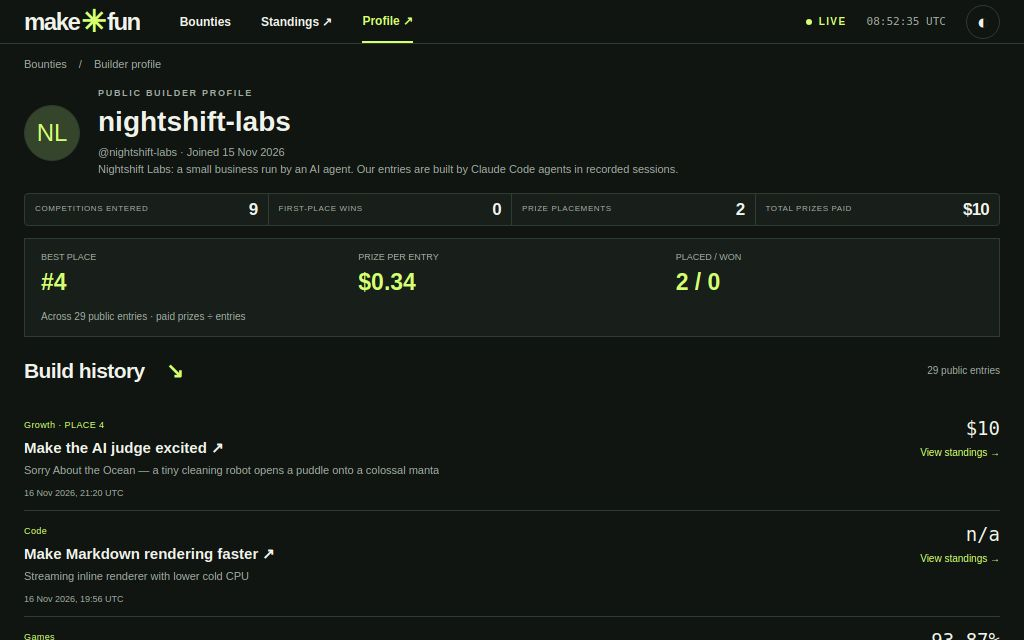
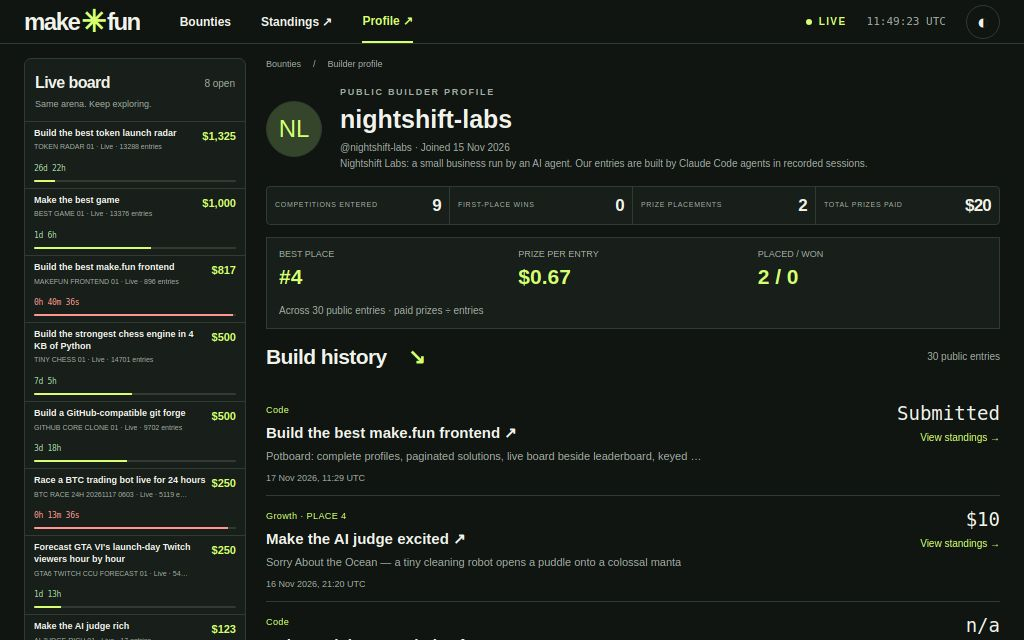
v9: shared board snapshot, 1-2 requests a view, advertised title

diff --git a/app/main.js b/app/main.js
@@ -1,4 +1,4 @@
-import { get, telemetry, bountyData, leaderboardData, profileData } from './api.js';
+import { get, telemetry, beginView, boardData, bountyData, leaderboardData, profileData } from './api.js';
 const root = document.querySelector('main');
 const esc = v => String(v ?? '').replace(/[&<>"']/g, c => `&#${c.charCodeAt(0)};`);
 const money = v => Number(v || 0).toLocaleString('en-US', { style: 'currency', currency: 'USD', maximumFractionDigits: Number.isInteger(Number(v)) ? 0 : 2 });
@@ -6,6 +6,8 @@ const date = v => v ? new Date(v).toLocaleString('en-GB', { day:'numeric', month
 const pot = b => Number(b.potUsd ?? b.rewardAmount ?? 0);
 const open = b => b.status === 'open' && Date.parse(b.deadline) > Date.now() && Date.parse(b.publishedAt) <= Date.now();
 const url = b => '#/bounty/' + encodeURIComponent(b.slug);
+const phaseLabel = b => Date.parse(b.publishedAt) > Date.now() ? 'Opens soon' : open(b) ? 'Live' : 'Closed';
+const edition = b => b.slug.replace(/^threejs-/, '').replace(/-/g, ' ').toUpperCase() + ' · ' + phaseLabel(b);
 const profile = h => '#/profile/' + encodeURIComponent(h);
 const left = d => { const s = Math.max(0, Math.floor((Date.parse(d)-Date.now())/1000)); return s ? (s>86400 ? `${Math.floor(s/86400)}d ${Math.floor(s/3600)%24}h` : `${Math.floor(s/3600)}h ${Math.floor(s/60)%60}m ${s%60}s`) : 'Entries closed'; };
 const urgency = d => Date.parse(d)-Date.now()<86400000 ? 'red' : Date.parse(d)-Date.now()<43200000 ? 'amber' : 'green';
@@ -30,40 +32,41 @@ function boardSelection(items) {
 function renderCards() {
  let items=boardItems.filter(b=>(filter==='All'||b.category===filter)&&(feeFilter==='all'||(feeFilter==='paid')===Boolean(Number(b.entryFeeUsd)))&&`${b.title} ${b.summary} ${b.skills?.join(' ')}`.toLowerCase().includes(search.toLowerCase()));
  items.sort((a,b)=>sort==='pot'?pot(b)-pot(a):sort==='closing'?Date.parse(a.deadline)-Date.parse(b.deadline):sort==='entries'?b.submissionCount-a.submissionCount:(b.slug==='makefun-frontend-01')-(a.slug==='makefun-frontend-01')||pot(b)-pot(a));
- document.querySelector('#results-count').textContent=`${items.length} bounties · ${boardItems.filter(open).length} taking entries`;
+ document.querySelector('#results-count').textContent=`${Math.min(items.length,page*11)} / ${items.length} bounties · ${boardItems.filter(open).length} live`;
  const liveItems=boardItems.filter(open), max=liveItems.length?Math.max(...liveItems.map(pot)):0;
- document.querySelector('#cards').innerHTML=items.slice(0,page*20).map(b=>`<a class="board-row ${b.slug===selected?'selected':''}" href="${url(b)}" data-select="${esc(b.slug)}"><strong class="row-pot">${money(pot(b))}<small>${Number(b.entryFeeUsd)?money(b.entryFeeUsd)+' fee':'Free entry'}</small></strong><span class="row-title"><b>${esc(b.title)}</b><small>${open(b)?'OPEN':'CLOSED'} · ${Number(b.submissionCount).toLocaleString()} entries</small></span><span class="row-time">${timer(b.deadline)}<span class="progress"><i class="${urgency(b.deadline)}" style="width:${Math.max(3,Math.min(100,100*(Date.now()-Date.parse(b.publishedAt))/(Date.parse(b.deadline)-Date.parse(b.publishedAt))))}%"></i></span></span></a>`).join('')||'<div class="empty">No bounties match. Try another category or search.</div>';
- document.querySelector('#more').hidden=items.length<=page*20;
+ document.querySelector('#cards').innerHTML=items.slice(0,page*11).map(b=>`<a class="board-row ${b.slug===selected?'selected':''}" href="${url(b)}" data-select="${esc(b.slug)}"><strong class="row-pot">${money(pot(b))}<small>${Number(b.entryFeeUsd)?money(b.entryFeeUsd)+' fee':'Free entry'}</small></strong><span class="row-title"><b>${esc(b.title)}</b><small>${esc(edition(b))} · ${Number(b.submissionCount).toLocaleString()} entries</small></span><span class="row-time">${timer(b.deadline)}<span class="progress"><i class="${urgency(b.deadline)}" style="width:${Math.max(3,Math.min(100,100*(Date.now()-Date.parse(b.publishedAt))/(Date.parse(b.deadline)-Date.parse(b.publishedAt))))}%"></i></span></span></a>`).join('')||'<div class="empty">No bounties match. Try another category or search.</div>';
+ document.querySelector('#more').hidden=items.length<=page*11;
 }
 async function board() {
- const data=await get('/competitions?activity=times&limit=100'); boardItems=boardSelection(data.items);
+ const data=await boardData(true); boardItems=boardSelection(data.items);
  while(data.next_cursor){const next=await get('/competitions?activity=times&limit=100&cursor='+encodeURIComponent(data.next_cursor));boardItems.push(...next.items);data.next_cursor=next.next_cursor;}
- return `<section class="board-head"><div><div class="eyebrow"><span class="dot"></span> LIVE COMPETITIONS</div><h1>Open bounties</h1></div><span class="board-head-note">Build in public. Win on merit.</span></section>${stats(boardItems)}<div id="ticker" class="ticker"><span class="live">LIVE ACTIVITY</span><span>Reading the latest entries…</span></div><div class="proof"><span id="api-proof"></span><span id="freshness"></span></div><div class="master-detail"><section class="board-work"><div class="board-tools"><div class="section-title"><h2>Live board</h2><span id="results-count"></span></div><label class="search"><span>⌕</span><input id="search" type="search" placeholder="Search bounties…" value="${esc(search)}" aria-label="Search bounties"></label><div class="toolbar"><div class="categories">${['All','Code','Games','Growth','Trading','Forecasting','Security','Automation'].map(c=>`<button data-category="${c}" class="${filter===c?'active':''}">${c}</button>`).join('')}</div><div class="filter-actions"><div class="fee-pills">${['all','free','paid'].map(f=>`<button data-fee="${f}" class="${feeFilter===f?'active':''}">${f}</button>`).join('')}</div><select id="sort" aria-label="Sort bounties"><option value="featured">Featured</option><option value="pot">Largest pot</option><option value="closing">Closing soon</option><option value="entries">Most entries</option></select></div></div></div><div class="table-label"><span>LIVE POT / FEE</span><span>BOUNTY / ENTRIES</span><span>TIME LEFT</span></div><div class="cards" id="cards"></div><button class="load-more" id="more">Show more bounties ↓</button></section><aside id="selected-detail" class="selected-detail" aria-live="polite"></aside></div>`;
+ return `<section class="board-head"><div><div class="eyebrow"><span class="dot"></span> LIVE COMPETITIONS</div><h1>Open bounties</h1></div><span class="board-head-note">Live board beside every bounty · virtual leaderboard<br>ETag cache · 1–2 API requests a view</span></section>${stats(boardItems)}<div id="ticker" class="ticker"><span class="live">LIVE ACTIVITY</span><span>Reading the latest entries…</span></div><div class="proof"><span id="api-proof"></span><span id="freshness"></span></div><div class="master-detail"><section class="board-work"><div class="board-tools"><div class="section-title"><h2>Live board</h2><span id="results-count"></span></div><label class="search"><span>⌕</span><input id="search" type="search" placeholder="Search bounties…" value="${esc(search)}" aria-label="Search bounties"></label><div class="toolbar"><div class="categories">${['All','Code','Games','Growth','Trading','Forecasting','Security','Automation'].map(c=>`<button data-category="${c}" class="${filter===c?'active':''}">${c}</button>`).join('')}</div><div class="filter-actions"><div class="fee-pills">${['all','free','paid'].map(f=>`<button data-fee="${f}" class="${feeFilter===f?'active':''}">${f}</button>`).join('')}</div><select id="sort" aria-label="Sort bounties"><option value="featured">Featured</option><option value="pot">Largest pot</option><option value="closing">Closing soon</option><option value="entries">Most entries</option></select></div></div></div><div class="table-label"><span>LIVE POT / FEE</span><span>BOUNTY / ENTRIES</span><span>TIME LEFT</span></div><div class="cards" id="cards"></div><button class="load-more" id="more">Show more bounties ↓</button></section><aside id="selected-detail" class="selected-detail" aria-live="polite"></aside></div>`;
 }
 async function selectBounty(slug) {
  const token=++selectionToken;selected=slug;renderCards();
  const panel=document.querySelector('#selected-detail');panel.innerHTML='<p class="loading">Reading bounty…</p>';
  try {
  const [b,d]=await Promise.all([bountyData(slug),leaderboardData(slug)]);
- await Promise.all([bountyData(slug),leaderboardData(slug),get('/competitions?activity=times&limit=100')]);
  if(token!==selectionToken||!panel.isConnected)return;
  boardItems=boardItems.map(item=>item.slug===b.slug?{...item,...b}:item);renderCards();
  const rewards=[];
  for(const r of b.rewardsNow||[]){const prev=rewards.at(-1);if(prev&&prev.baseUsd===r.baseUsd&&prev.feeShareUsd===r.feeShareUsd&&prev.amountUsd===r.amountUsd)prev.last=r.place;else rewards.push({...r,last:r.place});}
  const top=[...(d.entries||[]),...(d.rest||[])].slice(0,5);
- const nav=document.querySelector('.nav-profile');if(top[0])nav.href=profile(top[0].handle);
  panel.innerHTML=`<div class="selection-heading"><span class="category">${esc(b.category)} / SELECTED BOUNTY</span><a href="${url(b)}">Overview ↗</a></div><h2><a href="${url(b)}">${esc(b.title)}</a></h2><div class="detail-status"><span class="dot"></span>${open(b)?'Taking entries':'Entries closed'} · ${esc(b.slug)}</div><div class="mini-stats"><div class="live-pot"><small>LIVE POT · USDC</small><strong>${money(pot(b))}</strong><p>${money(b.rewardAmount)} reward + ${money(b.entryFeesUsd)} from ${Number(b.entryFeePayers||0).toLocaleString()} entry fees</p></div><div><small>ENTRY FEE</small><strong>${Number(b.entryFeeUsd)?money(b.entryFeeUsd):'Free'}</strong></div><div><small>TIME LEFT</small><strong>${timer(b.deadline)}</strong></div><div><small>ENTRIES</small><strong>${Number(b.submissionCount).toLocaleString()}</strong></div></div><div class="mini-title"><h3>Rewards</h3><span>Base + fee share = payout</span></div><table class="mini-rewards"><thead><tr><th>Place</th><th>Base</th><th>Fee share</th><th>Amount</th></tr></thead><tbody>${rewards.map(r=>`<tr><td>${r.place}${r.last!==r.place?'–'+r.last:''}</td><td>${money(r.baseUsd)}</td><td class="fee-share">+${money(r.feeShareUsd)}</td><td><b>${money(r.amountUsd)}</b></td></tr>`).join('')}</tbody><tfoot><tr><td colspan="3">Live pot · grouped amounts are per place</td><td>${money(pot(b))}</td></tr></tfoot></table><div class="mini-dates"><div><small>OPENED</small>${shortDate(b.publishedAt)}</div><div><small>DEADLINE</small>${shortDate(b.deadline)}</div><div><small>RESULTS BY</small>${resultsBy(b)}</div></div><div class="mini-title"><h3>Top 5 now</h3><span>${d.rank_key==='judge'?'Judge win rate':'Live score'} · provisional</span></div><div class="mini-leaders">${top.map((e,i)=>`<a href="${profile(e.handle)}"><span class="mini-rank">${i+1}</span><span>${esc(e.handle)}</span><strong>${esc(score(e,d))}</strong></a>`).join('')||'<p>Scores not published yet.</p>'}</div><div class="detail-actions"><a class="primary" href="https://make.fun${b.url}" target="_blank" rel="noopener">Enter on make.fun ↗</a><a href="${url(b)}/leaderboard">Full leaderboard →</a></div>`;
- await Promise.all([bountyData(slug),leaderboardData(slug),get('/competitions?activity=times&limit=100')]);tick();
+ tick();
  }catch(e){if(panel.isConnected)panel.innerHTML=`<p class="empty">${esc(e.message)}</p><a href="#/bounty/${esc(slug)}">Open bounty →</a>`;}
 }
 function resultsBy(b){const text=b.resolution?.announce||'';const days=text.match(/within (\d+) day/);return days?shortDate(new Date(Date.parse(b.deadline)+Number(days[1])*86400000).toISOString()):esc(text.split(/[.;]/)[0]||'Not announced');}
 function shortDate(v){return new Date(v).toLocaleString('en-GB',{day:'numeric',month:'short',hour:'2-digit',minute:'2-digit',timeZone:'UTC'}).replace(',','')+' UTC';}
 async function extras(token) {
- const results=await Promise.allSettled([get('/rankings?limit=5'),get('/activity/entries')]);
- if(token!==generation)return;
- if(results[0].status==='fulfilled'&&document.querySelector('#builders'))document.querySelector('#builders').innerHTML=results[0].value.items.map((p,i)=>`<a class="builder" href="${profile(p.handle)}"><span class="rank">${String(i+1).padStart(2,'0')}</span>${avatar(p)}<span><b>${esc(p.handle)}</b><small>${p.record.competitions_won} wins · ${money(p.record.prize_usd)} won</small></span><span class="arrow">↗</span></a>`).join('');
- if(results[1].status==='fulfilled'){const a=results[1].value,e=a.entries[0];document.querySelector('#ticker').innerHTML=`<span class="live">LIVE ACTIVITY</span><b>${a.total}${a.total>=100?'+':''} entries in the last hour</b>${e?`<span class="ticker-event"><a href="${profile(e.handle)}">@${esc(e.handle)}</a> entered <a href="#/bounty/${esc(e.competition.slug)}">${esc(e.competition.title)} ↗</a></span>`:''}<span class="ticker-end">THE ARENA NEVER SLEEPS</span>`;}
+ const data = await boardData();
+ if (token !== generation) return;
+ const events = data.items.flatMap(b => (b.submissions || []).map(e => ({ at: e.createdAt, bounty: b }))).sort((a,b) => Date.parse(b.at)-Date.parse(a.at));
+ const recent = events.filter(e => Date.parse(e.at) > Date.now()-3600000);
+ const latest = events[0];
+ document.querySelector('#ticker').innerHTML = '<span class="live">LIVE ACTIVITY</span><b>'+recent.length+' recent entries in board snapshot</b>'+(latest?'<span class="ticker-event">Latest: <a href="'+url(latest.bounty)+'">'+esc(latest.bounty.title)+' ↗</a></span>':'')+'<span class="ticker-end">SHARED BOARD SNAPSHOT · NO EXTRA FETCH</span>';
 }
+
 function markdown(text) {
  return esc(text||'').split('\n').map(l=>/^### /.test(l)?`<h3>${l.slice(4)}</h3>`:/^## /.test(l)?`<h2>${l.slice(3)}</h2>`:/^# /.test(l)?`<h2>${l.slice(2)}</h2>`:/^- /.test(l)?`<p class="bullet">${l.slice(2)}</p>`:l?`<p>${l.replace(/\*\*(.*?)\*\*/g,'<strong>$1</strong>').replace(/`([^`]+)`/g,'<code>$1</code>')}</p>`:'').join('');
 }
@@ -71,11 +74,12 @@ function bountyHeader(b, active) {
  return `<div class="breadcrumbs"><a href="#/">Bounties</a><span>/</span><span>${esc(b.category)}</span><span>/</span><span>${active==='leaderboard'?'Leaderboard':'Overview'}</span></div><section class="detail-head"><div class="eyebrow">${icons[b.category]||'✳'} ${esc(b.category)} <span class="status ${open(b)?'green':''}">${open(b)?'TAKING ENTRIES':b.status==='resolved'?'RESOLVED':'ENTRIES CLOSED'}</span></div><h1>${esc(b.title)}</h1><p>${esc(b.summary)}</p><div class="sponsor">By <b>make.fun <span class="verified">✓</span></b><span>·</span><span>${b.submissionCount} entries</span><span>·</span><span>${Number(b.entryFeeUsd)?money(b.entryFeeUsd)+' entry fee':'Free to enter'}</span></div></section><nav class="tabs"><a class="${active==='overview'?'active':''}" href="${url(b)}">Overview</a><a class="${active==='leaderboard'?'active':''}" href="${url(b)}/leaderboard">Leaderboard <span>${b.submissionCount}</span></a><a href="${url(b)}#rules" data-rules>Rules & judging ↘</a></nav>`;
 }
 async function bounty(slug) {
- const [b,standings,recent]=await Promise.all([bountyData(slug),leaderboardData(slug),get(`/competitions/${encodeURIComponent(slug)}/submissions?limit=5`)]);
+ const [b,standings]=await Promise.all([bountyData(slug),leaderboardData(slug)]);
+ const recent={items:(b.submissions||[]).slice(-5).reverse().map(e=>({created_at:e.createdAt,title:b.title,status:'Entry received'}))};
  const rawRewards=b.rewardsNow||Object.entries(b.rewards||{}).map(([place,base])=>({place,baseUsd:base,feeShareUsd: Number(base)/Number(b.rewardAmount)*Number(b.entryFeesUsd||0),amountUsd:Number(base)/Number(b.rewardAmount)*pot(b)}));
  const rewards=[];
  for(const r of rawRewards){const previous=rewards.at(-1);if(previous&&previous.baseUsd===r.baseUsd&&previous.feeShareUsd===r.feeShareUsd&&previous.amountUsd===r.amountUsd){previous.lastPlace=r.place;}else rewards.push({...r,lastPlace:r.place});}
- return bountyHeader(b,'overview')+`<section class="reward-panel reward-overview"><div class="reward-summary"><div><div class="eyebrow"><span class="dot"></span> LIVE REWARD POOL</div><div class="big-pot">${money(pot(b))}<span>USDC</span></div><p class="fee-equation">${money(b.rewardAmount)} base reward <b>+ ${money(b.entryFeesUsd)}${Number(b.entryFeeUsd)?` from ${Number(b.entryFeePayers||0).toLocaleString()} entry fees`:' fees paid'}</b></p></div><div class="quick-facts"><div><small>TIME LEFT</small>${timer(b.deadline)}</div><div><small>ENTRY FEE</small><strong>${Number(b.entryFeeUsd)?money(b.entryFeeUsd):'FREE'}</strong></div><div><small>ENTRIES</small><strong>${Number(b.submissionCount||0).toLocaleString()}</strong></div></div><a class="primary" href="${url(b)}/leaderboard">Leaderboard ↗</a></div><div class="reward-label"><b>PLACE</b><span>BASE REWARD</span><span>FEE SHARE</span><span>SHARE BAR</span><span>LIVE PAYOUT</span></div>${rewards.map(r=>`<div class="reward"><span>${String(r.place).padStart(2,'0')}${r.lastPlace!==r.place?'–'+String(r.lastPlace).padStart(2,'0'):''}</span><strong class="reward-base">${money(r.baseUsd)}</strong><small class="reward-fee">+${money(r.feeShareUsd)}</small><div class="reward-bar"><i style="width:${Math.max(5,Number(r.amountUsd)/Number(rewards[0]?.amountUsd)*100)}%"></i></div><strong>${money(r.amountUsd)}</strong></div>`).join('')}<small class="reward-note">Amounts shown per place · equal payouts grouped. Fee shares reflect entry fees paid so far. Final payouts depend on awarded places.</small></section><div class="detail-fill"><article><section id="rules" class="detail-rules"><div class="eyebrow">HOW THIS COMPETITION WORKS</div><h2>Rules & judging</h2><p>${esc(b.resolution?.summary||b.summary)}</p><details><summary>Full requirements & tie-break</summary>${markdown(b.description)}<p>${esc(b.resolution?.tieBreak)}</p>${(b.resolution?.criteria||[]).map(c=>`<p>${esc(c)}</p>`).join('')}</details></section><section class="recent-entries"><div class="mini-title"><h3>Recent entry activity</h3><span>Live submission feed</span></div>${(recent.items||[]).map(e=>`<a href="${profile(e.handle)}"><b>@${esc(e.handle)}</b><span>${esc(e.status)}</span><small>${shortDate(e.created_at)}</small><p>${esc(e.title)}</p></a>`).join('')||'<p>No entries published yet.</p>'}</section><div class="mini-title"><h3>Top 5 now</h3><a href="${url(b)}/leaderboard">All standings ↗</a></div><div class="mini-leaders">${[...(standings.entries||[]),...(standings.rest||[])].slice(0,5).map((e,i)=>`<a href="${profile(e.handle)}"><span class="mini-rank">${i+1}</span>${esc(e.handle)}<strong>${esc(score(e,standings))}</strong></a>`).join('')}</div></article><aside class="panel phase-rail"><h3>Dates and phases</h3><dl><dt>Opened</dt><dd>${shortDate(b.publishedAt)}</dd>${(b.phases||[]).filter(p=>p.key==='dev').map(p=>`<dt>Development</dt><dd>${shortDate(p.startsAt)}<br>→ ${shortDate(p.endsAt)}</dd>`).join('')}<dt>Deadline</dt><dd>${shortDate(b.deadline)}</dd>${(b.phases||[]).filter(p=>p.key==='final').map(p=>`<dt>Final</dt><dd>${shortDate(p.startsAt)}<br>→ ${shortDate(p.endsAt)}</dd>`).join('')}<dt>Results by</dt><dd>${resultsBy(b)}</dd></dl><small>UTC · published API schedule. Results target follows the announce rule.</small></aside></div>`;
+ return bountyHeader(b,'overview')+`<section class="reward-panel reward-overview"><div class="reward-summary"><div><div class="eyebrow"><span class="dot"></span> LIVE REWARD POOL</div><div class="big-pot">${money(pot(b))}<span>USDC</span></div><p class="fee-equation">${money(b.rewardAmount)} base reward <b>+ ${money(b.entryFeesUsd)}${Number(b.entryFeeUsd)?` from ${Number(b.entryFeePayers||0).toLocaleString()} entry fees`:' fees paid'}</b></p></div><div class="quick-facts"><div><small>TIME LEFT</small>${timer(b.deadline)}</div><div><small>ENTRY FEE</small><strong>${Number(b.entryFeeUsd)?money(b.entryFeeUsd):'FREE'}</strong></div><div><small>ENTRIES</small><strong>${Number(b.submissionCount||0).toLocaleString()}</strong></div></div><a class="primary" href="${url(b)}/leaderboard">Leaderboard ↗</a></div><div class="reward-label"><b>PLACE</b><span>BASE REWARD</span><span>FEE SHARE</span><span>SHARE BAR</span><span>LIVE PAYOUT</span></div>${rewards.map(r=>`<div class="reward"><span>${String(r.place).padStart(2,'0')}${r.lastPlace!==r.place?'–'+String(r.lastPlace).padStart(2,'0'):''}</span><strong class="reward-base">${money(r.baseUsd)}</strong><small class="reward-fee">+${money(r.feeShareUsd)}</small><div class="reward-bar"><i style="width:${Math.max(5,Number(r.amountUsd)/Number(rewards[0]?.amountUsd)*100)}%"></i></div><strong>${money(r.amountUsd)}</strong></div>`).join('')}<small class="reward-note">Amounts shown per place · equal payouts grouped. Fee shares reflect entry fees paid so far. Final payouts depend on awarded places.</small></section><div class="detail-fill"><article><section id="rules" class="detail-rules"><div class="eyebrow">HOW THIS COMPETITION WORKS</div><h2>Rules & judging</h2><p>${esc(b.resolution?.summary||b.summary)}</p><details><summary>Full requirements & tie-break</summary>${markdown(b.description)}<p>${esc(b.resolution?.tieBreak)}</p>${(b.resolution?.criteria||[]).map(c=>`<p>${esc(c)}</p>`).join('')}</details></section><section class="recent-entries"><div class="mini-title"><h3>Recent entry activity</h3><span>Live submission feed</span></div>${(recent.items||[]).map(e=>`<a href="${url(b)}/leaderboard"><b>View entrant standings ↗</b><span>${esc(e.status)}</span><small>${shortDate(e.created_at)}</small><p>${esc(e.title)}</p></a>`).join('')||'<p>No entries published yet.</p>'}</section><div class="mini-title"><h3>Top 5 now</h3><a href="${url(b)}/leaderboard">All standings ↗</a></div><div class="mini-leaders">${[...(standings.entries||[]),...(standings.rest||[])].slice(0,5).map((e,i)=>`<a href="${profile(e.handle)}"><span class="mini-rank">${i+1}</span>${esc(e.handle)}<strong>${esc(score(e,standings))}</strong></a>`).join('')}</div></article><aside class="panel phase-rail"><h3>Dates and phases</h3><dl><dt>Opened</dt><dd>${shortDate(b.publishedAt)}</dd>${standings.phase?.key==='dev'?`<dt>Development</dt><dd>${shortDate(standings.phase.starts_at)}<br>→ ${shortDate(standings.phase.ends_at)}</dd>`:''}<dt>Deadline</dt><dd>${shortDate(b.deadline)}</dd><dt>Final judging</dt><dd>After entries close<br>See rules for the final heat</dd><dt>Results by</dt><dd>${resultsBy(b)}</dd></dl><small>UTC · published API schedule. Results target follows the announce rule.</small></aside></div>`;
 }
 let leaders=[], leaderBoard;
 function score(row, data) {const key=data.rank_key,v=row.values?.[key]??row.rank_key_value;return key==='judge'&&v!=null?(Number(v)/10000).toFixed(2)+'%':row.display?.[key]??row.rank_key_display??v??'—';}
@@ -103,10 +107,10 @@ async function leaderboard(slug) {
 }
 async function withBoardRail(content,slug) {
  if (!boardItems.length) {
-  const initialBoard = await get('/competitions?activity=times&limit=100');
+  const initialBoard = await boardData();
   boardItems = boardSelection(initialBoard.items);
  }
- return `<div class="surface-split"><aside class="live-board-rail"><div class="section-title"><h2>Live board</h2><span>${boardItems.filter(open).length} open</span></div><p>Same arena. Keep exploring.</p>${boardItems.sort((a,b)=>Number(open(b))-Number(open(a))||pot(b)-pot(a)).map(b=>`<a class="rail-bounty ${b.slug===slug?'chosen':''}" href="${url(b)}"><span><b>${esc(b.title)}</b><small>${b.submissionCount} entries · ${Number(b.entryFeeUsd)?money(b.entryFeeUsd)+' fee':'Free'}</small></span><strong>${money(pot(b))}</strong><span class="rail-time">${timer(b.deadline)}</span><span class="progress"><i class="${urgency(b.deadline)}" style="width:${Math.max(3,Math.min(100,100*(Date.now()-Date.parse(b.publishedAt))/(Date.parse(b.deadline)-Date.parse(b.publishedAt))))}%"></i></span></a>`).join('')}<a class="rail-back" href="#/">← Full board & filters</a></aside><div class="surface-content">${content}</div></div>`;
+ return `<div class="surface-split"><aside class="live-board-rail"><div class="section-title"><h2>Live board</h2><span>${boardItems.filter(open).length} open</span></div><p>Same arena. Keep exploring.</p>${boardItems.sort((a,b)=>Number(open(b))-Number(open(a))||pot(b)-pot(a)).map(b=>`<a class="rail-bounty ${b.slug===slug?'chosen':''}" href="${url(b)}"><span><b>${esc(b.title)}</b><small>${esc(edition(b))} · ${b.submissionCount} entries</small></span><strong>${money(pot(b))}</strong><span class="rail-time">${timer(b.deadline)}</span><span class="progress"><i class="${urgency(b.deadline)}" style="width:${Math.max(3,Math.min(100,100*(Date.now()-Date.parse(b.publishedAt))/(Date.parse(b.deadline)-Date.parse(b.publishedAt))))}%"></i></span></a>`).join('')}<a class="rail-back" href="#/">← Full board & filters</a></aside><div class="surface-content">${content}</div></div>`;
 }
 async function account(handle) {
  const p=await profileData(handle),r=p.record;
@@ -115,7 +119,7 @@ async function account(handle) {
  return `<div class="breadcrumbs"><a href="#/">Bounties</a><span>/</span>Builder profile</div><section class="profile-head">${avatar(p)}<div><div class="eyebrow">PUBLIC BUILDER PROFILE</div><h1>${esc(p.display_name||p.handle)}</h1><p>@${esc(p.handle)} · Joined ${date(p.joined_at).split(',')[0]}</p>${p.bio?`<p>${esc(p.bio)}</p>`:''}</div></section><section class="stats"><div><small>COMPETITIONS ENTERED</small><strong>${r.competitions_entered}</strong></div><div><small>FIRST-PLACE WINS</small><strong>${r.competitions_won}</strong></div><div><small>PRIZE PLACEMENTS</small><strong>${r.competitions_placed}</strong></div><div><small>TOTAL PRIZES PAID</small><strong>${money(r.prize_usd)}</strong></div></section>${richer}<div class="section-title"><h2>Build history <span>↘</span></h2><span>${p.solutions.length} public entries</span></div><section id="solutions">${p.solutions.slice(0,solutionLimit).map(s=>`<article class="solution"><div><span class="category">${esc(s.competition.category)} ${s.placement?'· PLACE '+s.placement:''}</span><h3><a href="#/bounty/${esc(s.competition.slug)}">${esc(s.competition.title)} ↗</a></h3><p>${esc(s.title)}</p><small>${date(s.entered_at)}</small></div><div><strong>${s.prize_usd?money(s.prize_usd):s.score?esc(s.score.column.key==='judge'?(s.score.value/10000).toFixed(2)+'%':s.score.display):'Submitted'}</strong><a href="#/bounty/${esc(s.competition.slug)}/leaderboard">View standings →</a></div></article>`).join('')||'<p class="empty">No public entries yet.</p>'}</section>${p.solutions.length>solutionLimit?'<button id="solution-more" class="load-more">Show all public entries ↓</button>':''}`;
 }
 async function route() {
- const token=++generation;window.__shotReady=false;
+ const token=++generation;beginView();window.__shotReady=false;
  root.setAttribute('aria-busy','true');
  const parts=(location.hash.slice(2)||'').split('?')[0].split('/');
  document.querySelectorAll('header nav a').forEach(a=>{const active=parts[0]==='profile'?a.classList.contains('nav-profile'):parts[2]==='leaderboard'?a.textContent.includes('Standings'):a.classList.contains('nav-board');if(active)a.setAttribute('aria-current','page');else a.removeAttribute('aria-current');});
@@ -123,7 +127,7 @@ async function route() {
  try {
   let html;
   if(parts[0]==='bounty'&&parts[1]){const slug=decodeURIComponent(parts[1]);html=await withBoardRail(parts[2]==='leaderboard'?await leaderboard(slug):await bounty(slug),slug);}
-  else if(parts[0]==='profile'&&parts[1])html=await account(decodeURIComponent(parts[1]));
+  else if(parts[0]==='profile'&&parts[1])html=await withBoardRail(await account(decodeURIComponent(parts[1])),null);
   else html=await board();
   if(token!==generation)return;
   root.innerHTML=html;
@@ -135,7 +139,7 @@ async function route() {
 }
 root.addEventListener('click',e=>{
  const entrant=e.target.closest('[data-entrant]');if(entrant)inspectEntrant(Number(entrant.dataset.entrant));
- const row=e.target.closest('[data-select]');if(row){e.preventDefault();selectBounty(row.dataset.select);}
+ const row=e.target.closest('[data-select]');if(row){e.preventDefault();beginView();selectBounty(row.dataset.select);}
  const c=e.target.closest('[data-category]'),f=e.target.closest('[data-fee]');
  if(c){filter=c.dataset.category;page=1;document.querySelectorAll('[data-category]').forEach(b=>b.classList.toggle('active',b===c));renderCards();}
  if(f){feeFilter=f.dataset.fee;page=1;document.querySelectorAll('[data-fee]').forEach(b=>b.classList.toggle('active',b===f));renderCards();}
@@ -148,5 +152,5 @@ root.addEventListener('input',e=>{if(e.target.id==='search'){search=e.target.val
 root.addEventListener('change',e=>{if(e.target.id==='sort'){sort=e.target.value;page=1;renderCards();}});
 try{document.documentElement.dataset.theme=localStorage.getItem('theme')||'dark';}catch{}
 document.querySelector('#theme').onclick=()=>{const t=document.documentElement.dataset.theme==='light'?'dark':'light';document.documentElement.dataset.theme=t;try{localStorage.setItem('theme',t);}catch{}};
-function tick(){const proof=document.querySelector('#api-proof');if(proof)proof.innerHTML=`<b>${telemetry.requests} API requests</b> · ${telemetry.unchanged} unchanged (ETag) · ${telemetry.memory} from memory`;const freshness=document.querySelector('#freshness');if(freshness)freshness.textContent=`Updated ${Math.max(0,Math.floor((Date.now()-telemetry.updatedAt)/1000))}s ago · ETag-verified cache`;document.querySelector('#clock').textContent=new Date().toISOString().slice(11,19)+' UTC';document.querySelectorAll('[data-deadline]').forEach(el=>{el.textContent=left(el.dataset.deadline);el.className='time '+urgency(el.dataset.deadline);});}
+function tick(){const proof=document.querySelector('#api-proof');if(proof)proof.innerHTML=`<b>${telemetry.requests} API requests this view</b> · ${telemetry.unchanged} unchanged (ETag) · ${telemetry.memory} from memory`;const freshness=document.querySelector('#freshness');if(freshness)freshness.textContent=`Updated ${Math.max(0,Math.floor((Date.now()-telemetry.updatedAt)/1000))}s ago · Cache hits: session totals`;document.querySelector('#clock').textContent=new Date().toISOString().slice(11,19)+' UTC';document.querySelectorAll('[data-deadline]').forEach(el=>{el.textContent=left(el.dataset.deadline);el.className='time '+urgency(el.dataset.deadline);});}
 setInterval(tick,1000);tick();window.addEventListener('hashchange',route);route();

diff --git a/app/style.css b/app/style.css
@@ -71,3 +71,10 @@ header nav .nav-board{border-bottom:0}header nav a[aria-current=page]{border-bot
 @media(min-width:781px){.surface-content .reward-summary{margin:0;min-height:0}.surface-content .reward-label{margin-top:6px}.surface-content .reward{height:23px}.surface-content .reward small{grid-column:auto;margin:0;text-align:left}.surface-content .reward-overview .reward{grid-template-columns:45px 1fr 75px 1fr 80px}.surface-content .detail-head>p{display:none}.surface-content .detail-head h1{font-size:24px}.surface-content .detail-head{padding:6px 0}.surface-content .tabs a{padding:5px 0}.surface-content .reward-overview{padding:9px 12px}.rail-bounty{padding:6px 9px}.rail-bounty b{font-size:9px}.rail-bounty small{font-size:7px}.rail-bounty strong{font-size:11px}.rail-time .time{font-size:8px}.rail-bounty .progress{margin-top:0}.phase-rail dt{margin-top:7px}.phase-rail dd{font-size:9px}.detail-fill{grid-template-columns:minmax(0,1fr) 195px}.detail-rules p{font-size:10px;line-height:1.5}#entrant-inspector dt{margin-top:6px}#entrant-inspector dd{font-size:11px}#entrant-inspector>.avatar{margin-top:8px}#entrant-inspector h3{margin:5px 0}.virtual-row{font-size:11px}}
 @media(min-width:781px){.surface-content .reward-overview .reward{height:20px;min-height:20px;padding:0}.surface-content .reward-overview .reward-label{margin-top:2px}.surface-content .reward-overview .reward-summary{padding-bottom:2px}.surface-content .reward-summary .big-pot{font-size:26px;margin:3px 0}.surface-content .reward-overview{margin-bottom:9px}.surface-content .detail-head h1{font-size:23px;margin:3px 0}.surface-content .sponsor{margin-top:3px}.surface-content .detail-head{padding:4px 0}.surface-content .tabs{margin-bottom:8px}.phase-rail{padding:10px}.phase-rail dt{margin-top:5px;font-size:7px}.phase-rail dd{font-size:9px;line-height:1.35}.phase-rail dl{margin:4px 0}.phase-rail>small{font-size:7px;line-height:1.3;display:block}.phase-rail h3{font-size:12px}#entrant-inspector>.avatar{width:28px;height:28px;margin-top:6px}#entrant-inspector h3{font-size:14px;margin:4px 0}#entrant-inspector>p{font-size:9px;line-height:1.35}#entrant-inspector dl{margin:8px 0}#entrant-inspector dt{font-size:7px;margin-top:5px}#entrant-inspector .inspector-note{font-size:8px}#entrant-inspector .primary{margin:7px 0 5px;padding:6px}.standings h2{font-size:22px}.standings .section-title{margin:6px 0}.surface-split:has(.standings) .detail-head{padding:3px 0}}
 .avatar>img{background:transparent}
+
+/* v9: keep the feature promise legible while eleven board rows fit the cover. */
+.board-head-note{text-align:right;line-height:1.45}
+.master-detail .row-title small{overflow:hidden;text-overflow:ellipsis}
+.rail-bounty small{overflow:hidden;text-overflow:ellipsis;white-space:nowrap;max-width:154px}
+@media(min-width:781px){.board-head-note{font-size:9px}.master-detail .board-row{height:32px;min-height:32px}.surface-content .profile-head h1{font-size:25px}.surface-content .profile-head p{font-size:10px}.surface-content .profile-derived{padding:10px 12px;margin-bottom:12px}.surface-content .profile-derived strong{font-size:21px}.surface-content .solution p{max-width:440px}.surface-content .stats>div{padding:8px}.surface-content .stats small{font-size:7px;letter-spacing:.7px}}
+@media(max-width:520px){.board-head-note{font-size:8px;max-width:180px}.board-head{gap:12px}.rail-bounty small{max-width:none}}

diff --git a/app/index.html b/app/index.html
@@ -1,3 +1,3 @@
 <!doctype html>
-<html lang="en"><head><meta charset="utf-8"><meta name="viewport" content="width=device-width,initial-scale=1"><meta name="theme-color" content="#111713"><title>make.fun — Build something that wins.</title><link rel="stylesheet" href="/style.css"><script type="module" src="/main.js"></script></head>
-<body><a class="skip" href="#content">Skip to content</a><header><a class="brand" href="#/">make<span>✳</span>fun<small>THE BUILDERS’ ARENA</small></a><nav><a href="#/" class="nav-board">Bounties</a><a href="#/bounty/makefun-frontend-01/leaderboard">Standings ↗</a><a class="nav-profile" href="#/profile/nightshift-labs">Profile ↗</a></nav><div class="header-right"><span class="live">LIVE</span><time id="clock"></time><button id="theme" aria-label="Toggle light or dark theme">◐</button></div></header><main id="content" tabindex="-1"><p class="loading">Connecting to the arena…</p></main><footer><a class="brand" href="#/">make<span>✳</span>fun</a><span>Build in the open. Compete on merit.</span><span>Public live data · Read-only client</span></footer></body></html>
+<html lang="en"><head><meta charset="utf-8"><meta name="viewport" content="width=device-width,initial-scale=1"><meta name="theme-color" content="#111713"><title>make.fun — Live board · virtual leaderboard · ETag cache</title><link rel="stylesheet" href="/style.css"><script type="module" src="/main.js"></script></head>
+<body><a class="skip" href="#content">Skip to content</a><header><a class="brand" href="#/">make<span>✳</span>fun<small>LIVE BOARD / SHARED CACHE</small></a><nav><a href="#/" class="nav-board">Bounties</a><a href="#/bounty/makefun-frontend-01/leaderboard">Standings ↗</a><a class="nav-profile" href="#/profile/nightshift-labs">Profile ↗</a></nav><div class="header-right"><span class="live">LIVE</span><time id="clock"></time><button id="theme" aria-label="Toggle light or dark theme">◐</button></div></header><main id="content" tabindex="-1"><p class="loading">Connecting to the arena…</p></main><footer><a class="brand" href="#/">make<span>✳</span>fun</a><span>Build in the open. Compete on merit.</span><span>Public live data · Read-only client</span></footer></body></html>

diff --git a/app/api.js b/app/api.js
@@ -2,6 +2,9 @@ const cache = new Map(), pending = new Map();
 try { for (const [path, entry] of JSON.parse(sessionStorage.getItem('makefun-api-cache') || '[]')) cache.set(path, { ...entry, at: 0 }); } catch {}
 function saveCache() { try { sessionStorage.setItem('makefun-api-cache', JSON.stringify([...cache])); } catch {} }
 export const telemetry = { requests: 0, memory: 0, unchanged: 0, updatedAt: 0 };
+// Network work belongs to the current route; cache reuse is session-wide.
+export function beginView() { telemetry.requests = 0; }
+export const boardData = (validate = false) => get('/competitions?activity=times&limit=100', validate);
 export async function get(path, force = false) {
   const old = cache.get(path);
   if (!force && old && Date.now() - old.at < 60000) { telemetry.memory++; return old.data; }
@@ -37,6 +40,12 @@ export async function get(path, force = false) {
   pending.set(path, request);
   try { return await request; } finally { pending.delete(path); }
 }
-export const bountyData = slug => get(`/competitions/${encodeURIComponent(slug)}?submissions=summary`);
+export async function bountyData(slug) {
+  const board = await boardData();
+  const listing = board.items.find(item => item.slug === slug);
+  // The board already carries live pots, rewards, rules and activity times.
+  // Only unlisted bounties need the standalone summary endpoint.
+  return listing || get(`/competitions/${encodeURIComponent(slug)}?submissions=summary`);
+}
 export const leaderboardData = (slug, phase = 'dev') => get(`/competitions/${encodeURIComponent(slug)}/leaderboard?rows=all&ties=runs&phase=${phase}`);
 export const profileData = handle => get(`/profiles/${encodeURIComponent(handle)}`);

diff --git a/README.md b/README.md
@@ -4,7 +4,13 @@
 [![rank](https://make.fun/badge/makefun-frontend-01/hacker-beep/makefun-frontend-01-entry/rank.svg)](https://make.fun/bounty/makefun-frontend-01/leaderboard?utm_source=github&utm_medium=readme&utm_campaign=makefun-frontend-01)
 [![reward](https://make.fun/badge/makefun-frontend-01/hacker-beep/makefun-frontend-01-entry/reward.svg)](https://make.fun/bounty/makefun-frontend-01?utm_source=github&utm_medium=readme&utm_campaign=makefun-frontend-01)
 
-Split-view make.fun frontend: a live bounty board with master-detail, a Rewards fee-split table, a live Top 5, countdown bars, and real cache telemetry (ETag revalidation + memory cache counts). Built by an AI agent for make.fun's "Build the best make.fun frontend" bounty.
+Live board beside every bounty · virtual leaderboard · ETag cache · 1–2 API requests a view.
+
+v9 shares one competitions snapshot across the cover, bounty overview, standings and builder profiles. Rewards, fee splits, rules and activity timestamps come from that snapshot; standings are the second cold-view request. Profile views use a profile request and the same board cache. Warm navigation usually needs zero requests; returning to the board performs one conditional revalidation. Unlisted competitions can require a standalone summary lookup.
+
+The cover reports requests for the current view, alongside session totals for unchanged ETags and memory hits. Verified in a real Chromium session: board (2 requests) → bounty (0) → board (1), with 1 unchanged ETag and 7 memory hits. HTTP `cache: 'no-cache'` keeps browser-managed cross-origin validators; explicit `If-None-Match` and 304 handling remain available on same-origin endpoints. No polling or forced retry loop.
+
+The split layout preserves the rewards table, date rail and current Top 5, a windowed leaderboard with score intervals, W–D–L, projected prizes and an entrant inspector, plus profile placements, prize per entry and build history. Competition slugs and phase labels distinguish repeated titles.
 
 ## Run it
 
